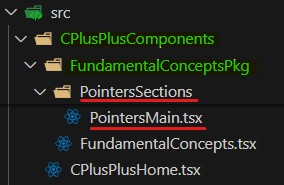
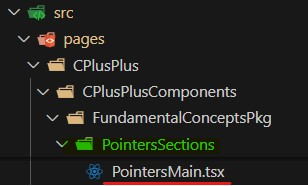
08-07-2025 19:29

diff --git a/src/pages/PageCreate/PageCreateComponents/SpecificationDocsPkg/CreateStepsSection/CreateStep7.tsx b/src/pages/PageCreate/PageCreateComponents/SpecificationDocsPkg/CreateStepsSection/CreateStep7.tsx
@@ -33,10 +33,10 @@ const CreateStep7 = ({ anchor }: { anchor: string }) => {
         </strong>
 
         <ul className="my-4 ml-8 list-decimal">
-          <li>
-            create <Span>PointersSections</Span> folder , inside <Span>CPlusPlusComponents/FundamentalConceptsPkg</Span> folder
+          <li className="my-1">
+            create <Span>PointersSections</Span> folder , inside <Span>/pages/CPlusPlus/CPlusPlusComponents/FundamentalConceptsPkg</Span> folder
           </li>
-          <li>
+          <li className="my-1">
             create <Span>PointersMain</Span> component , inside <Span>PointersSections</Span> folder
           </li>
           <div className="my-2">Folder layout :</div>
@@ -45,22 +45,22 @@ const CreateStep7 = ({ anchor }: { anchor: string }) => {
             <Span>PointersMain.tsx</Span> code :
           </div>
           <JsxHighlight jsxCode={jsxCode_pointers_main} />
-          <li>
+          <li className="my-1">
             go to <Span>App.tsx</Span> file
           </li>
-          <li>
+          <li className="my-1">
             add <Span>children</Span> to <Span>FundamentalConcepts</Span>
           </li>
-          <li>
+          <li className="my-1">
             define new route under <Span>FundamentalConcepts</Span> as follows
             <Span>{`{ path: "pointers", element: <PointersMain /> }`}</Span>
           </li>
 
           <JsxHighlight jsxCode={jsxCode_App_with_pointers} />
-          <li>
+          <li className="my-1">
             go to <Span>DropDownFundamentalConcepts.tsx</Span>
           </li>
-          <li>
+          <li className="my-1">
             copy the code below ( It's template of <Span>Z_DropDownIncludeInternalLink.tsx</Span>) and paste it
             <Span>DropDownFundamentalConcepts.tsx</Span>
             <div className="my-2">
